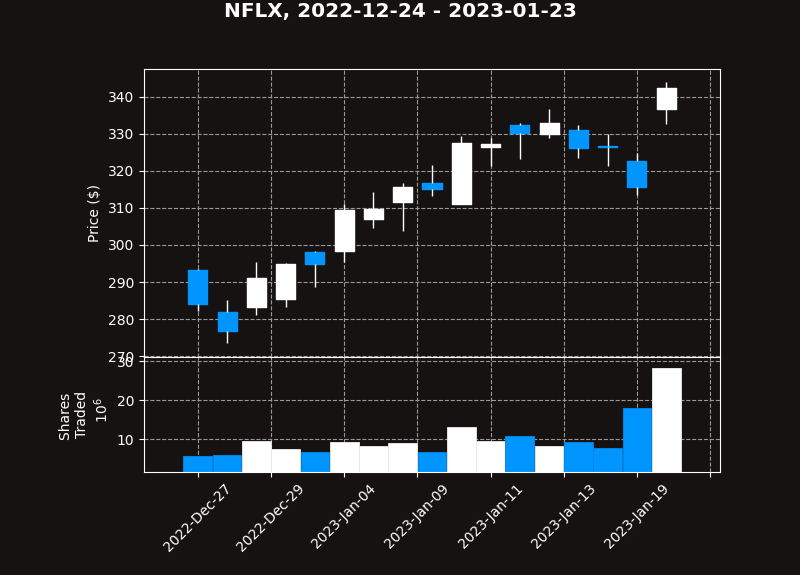
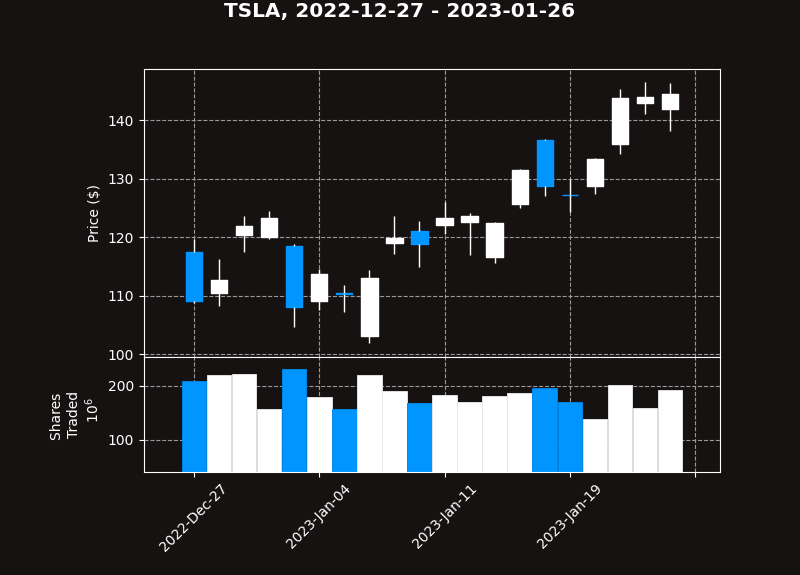
card-macro attempt, navbar extra button removed

diff --git a/templates/search.html b/templates/search.html
@@ -27,7 +27,7 @@
 {% if noResults %}
     <h3 class="text-center text-5xl font-bold text-primary">No Results</h3>
     {% else %}
-    <h1 class="text-5xl text-primary mt-10 mb-10">{{ ticker }} Monthly Aggregate Data from {{ data[0][0][0] }} to {{ data[0][0][1] }}</h1>
+    <h1 class="text-5xl text-primary mt-10 mb-10"><strong>{{ ticker }}</strong> Monthly Aggregate Data from {{ data[0][0][0] }} to {{ data[0][0][1] }}</h1>
     <div class="card bg-base-100 shadow-xl w-[40rem] mt-5 mb-5 mx-auto">
       <img class="py-5 mx-auto" src="{{ url_for('static', filename='candle-bars.png') }}" alt="Candle Plot of Monthly Data">
     </div>
@@ -66,21 +66,23 @@
         <div class="flex flex-col gap-y-10 md:gap-x-10 md:flex-row md:flex-wrap justify-center">
             {{ tweet }}
             {% for tweet in tweets %}
-            <div class="card w-96 bg-base-100 shadow-2xl">
+            <div class="card w-96 bg-base-100 hover:shadow-2xl">
                 <div class="card-body">
                   <h2 class="card-title">{{ tweet.user.name }}
                     {% if tweet.user.verified %}
                       <i class="fa-solid fa-check-double inline-block justify-end text-primary"></i>                     
                     {% endif %}
                   </h2>
-                  <p>{{ ' https'.join(tweet.text.split(' https')[:-1]) }}</p>
+                  <p class="mb-3">{{ ' https'.join(tweet.text.split(' https')[:-1]) }}</p>
                   <button class="card-actions justify-center">
                     <a class="btn btn-primary hover:shadow-xl" href="https{{ tweet.text.split('https')[-1] }}">Go to Tweet      
                       <i class="ml-2 fas fa-external-link-alt inline-block justify-end"></i>
-                    </a>-
+                    </a>
                   </button>
                 </div>
               </div>
+              <!-- Saptak when you see this try and debug this -->
+              
             
             {% endfor %}
         </div>

diff --git a/templates/macros.html b/templates/macros.html
@@ -1,4 +1,4 @@
-{% macro card(title='Card Title', text="Some quick example text to build on the card title and make up the bulk of the card's content.", button='Go Somewhere', buttonLink='#', cardClasses='', buttonClasses='') -%}
+{% macro bootstrapcard(title='Card Title', text="Some quick example text to build on the card title and make up the bulk of the card's content.", button='Go Somewhere', buttonLink='#', cardClasses='', buttonClasses='') -%}
     <div class="card {{ cardClasses }}">
         <!-- Add Image Macro if Required. -->
         <!-- <img src="..." class="card-img-top" alt="..."> -->
@@ -22,4 +22,23 @@
             <img src="{{ imagehref }}" alt="Image">
         {% endif %}
     </section>
+{%- endmacro %}
+{% macro card(title='Card Title', text="Some efjiowwww", button="Go", buttonLink="#", button_external='', verified_tweet='') -%}
+    <div class="card w-96 bg-base-100 shadow-2xl">
+        <div class="card-body">
+        <h2 class="card-title">{{ title }}
+            {% if verified_tweet != '' %}
+                <i class="fa-solid fa-check-double inline-block justify-end text-primary"></i>                     
+            {% endif %}
+        </h2>
+        <p class="mb-3">{{ text }}</p>
+        <button class="card-actions justify-center">
+            <a class="btn btn-primary hover:shadow-xl" href="{{ buttonLink }}">Go to Tweet   
+                {% if button_external != '' %}   
+                    <i class="ml-2 fas fa-external-link-alt inline-block justify-end"></i>
+                {% endif %}
+            </a>
+        </button>
+        </div>
+    </div>
 {%- endmacro %}

diff --git a/templates/template.html b/templates/template.html
@@ -30,7 +30,6 @@
               <li><a class="rounded-tr-none rounded-tl-none">Submenu 3</a></li>
             </ul>
           </li>
-          <li><a>Item 3</a></li>
         </ul>
       </div>
       <div class="flex-none">
@@ -52,7 +51,7 @@
         </form>
         <button>
           <a href=""> <!--settings page-->
-            <i class="fa fa-cog fa-xl px-5" aria-hidden="true"></i>
+            <i class="fa fa-cog fa-xl px-5 text-primary transition-all" aria-hidden="true"></i>
           </a>
         </button>
       </div>

diff --git a/templates/index.html b/templates/index.html
@@ -9,7 +9,12 @@
       <div class="mockup-phone">
         <div class="camera"></div>
         <div class="display">
-          <div class="artboard artboard-demo phone-1">Hi.</div>
+          <div class="artboard artboard-demo phone-1">
+            <span class="text-primary text-5xl">
+              <strong>investify.</strong>
+            </span>
+            <i class="fa-solid fa-chart-mixed"></i>
+          </div>
         </div>
       </div>
       <div class="max-w-[40%]">

diff --git a/app.py b/app.py
@@ -28,7 +28,7 @@ def search():
       data = [prevAggs]
       tweets, averageSentiment = getSocialStats(ticker)
       averageSentiment = round(averageSentiment, 2)
-      return render_template('search.html', data=data, searchForm=searchForm, tweets=tweets, averageSentiment=averageSentiment)
+      return render_template('search.html', data=data, searchForm=searchForm, ticker=ticker, tweets=tweets, averageSentiment=averageSentiment)
     except Exception as e:
       print(e)
       flash(f'Ticker "{searchForm.ticker.data.upper()}" not found.', 'error')
